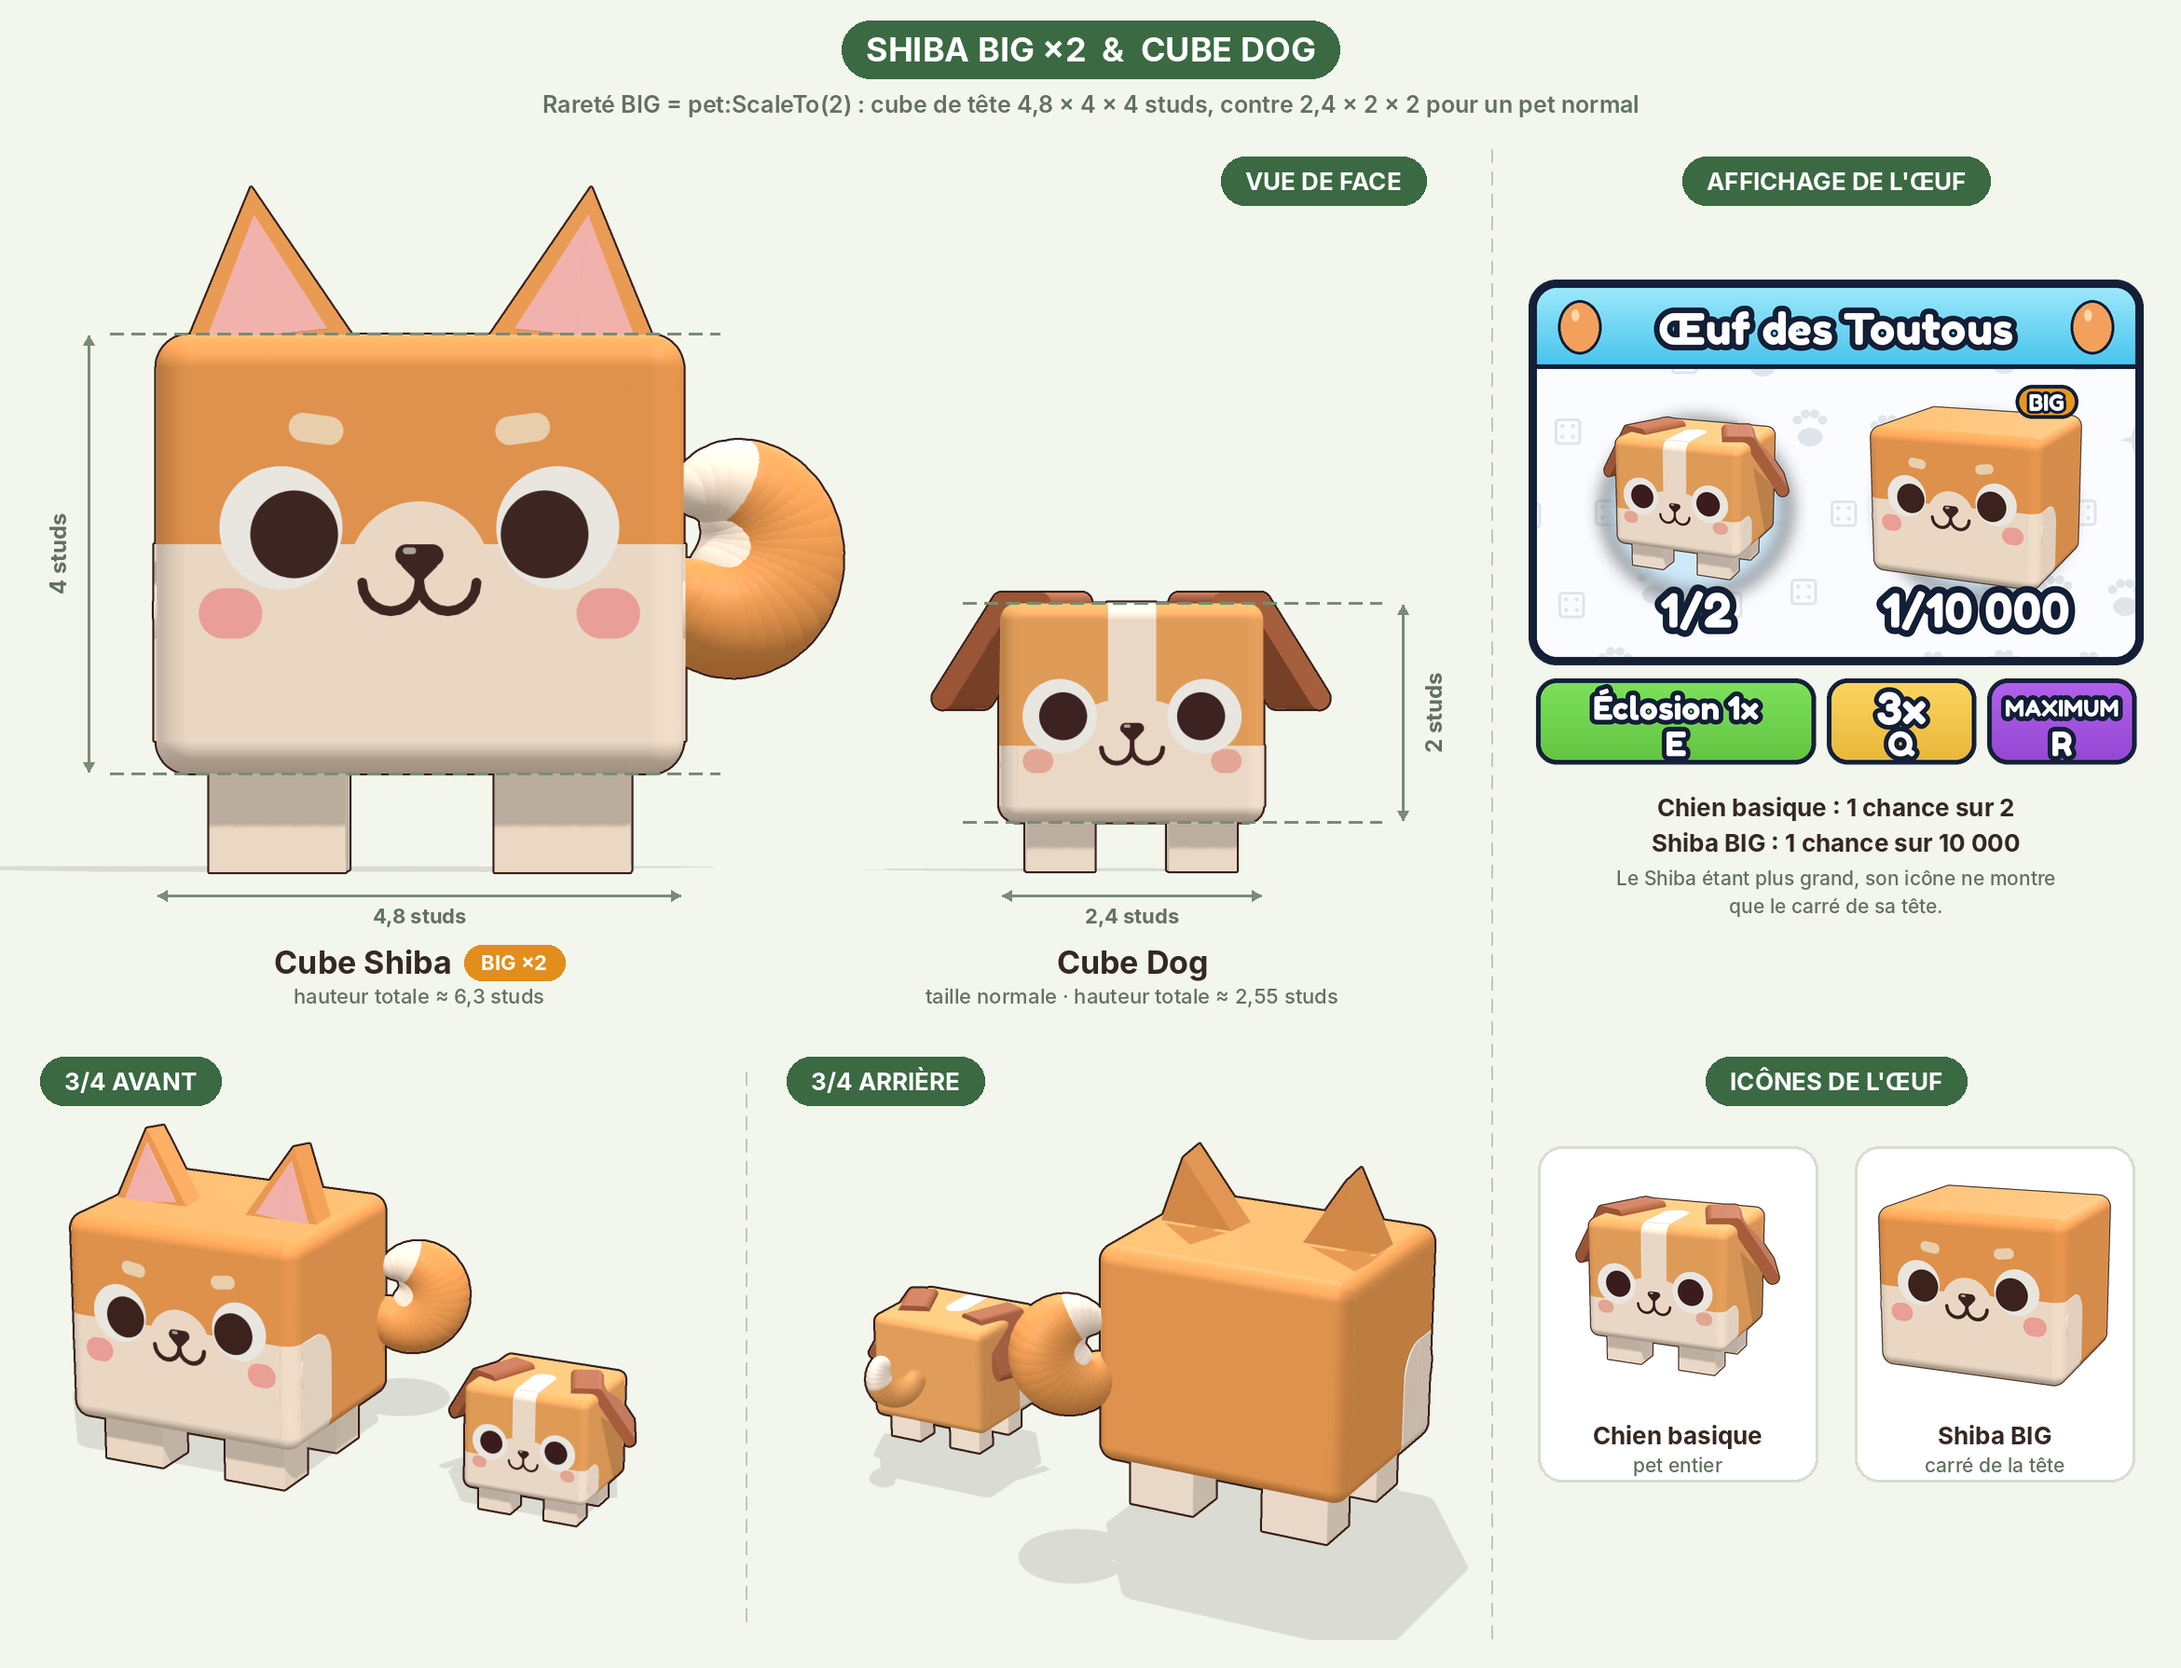
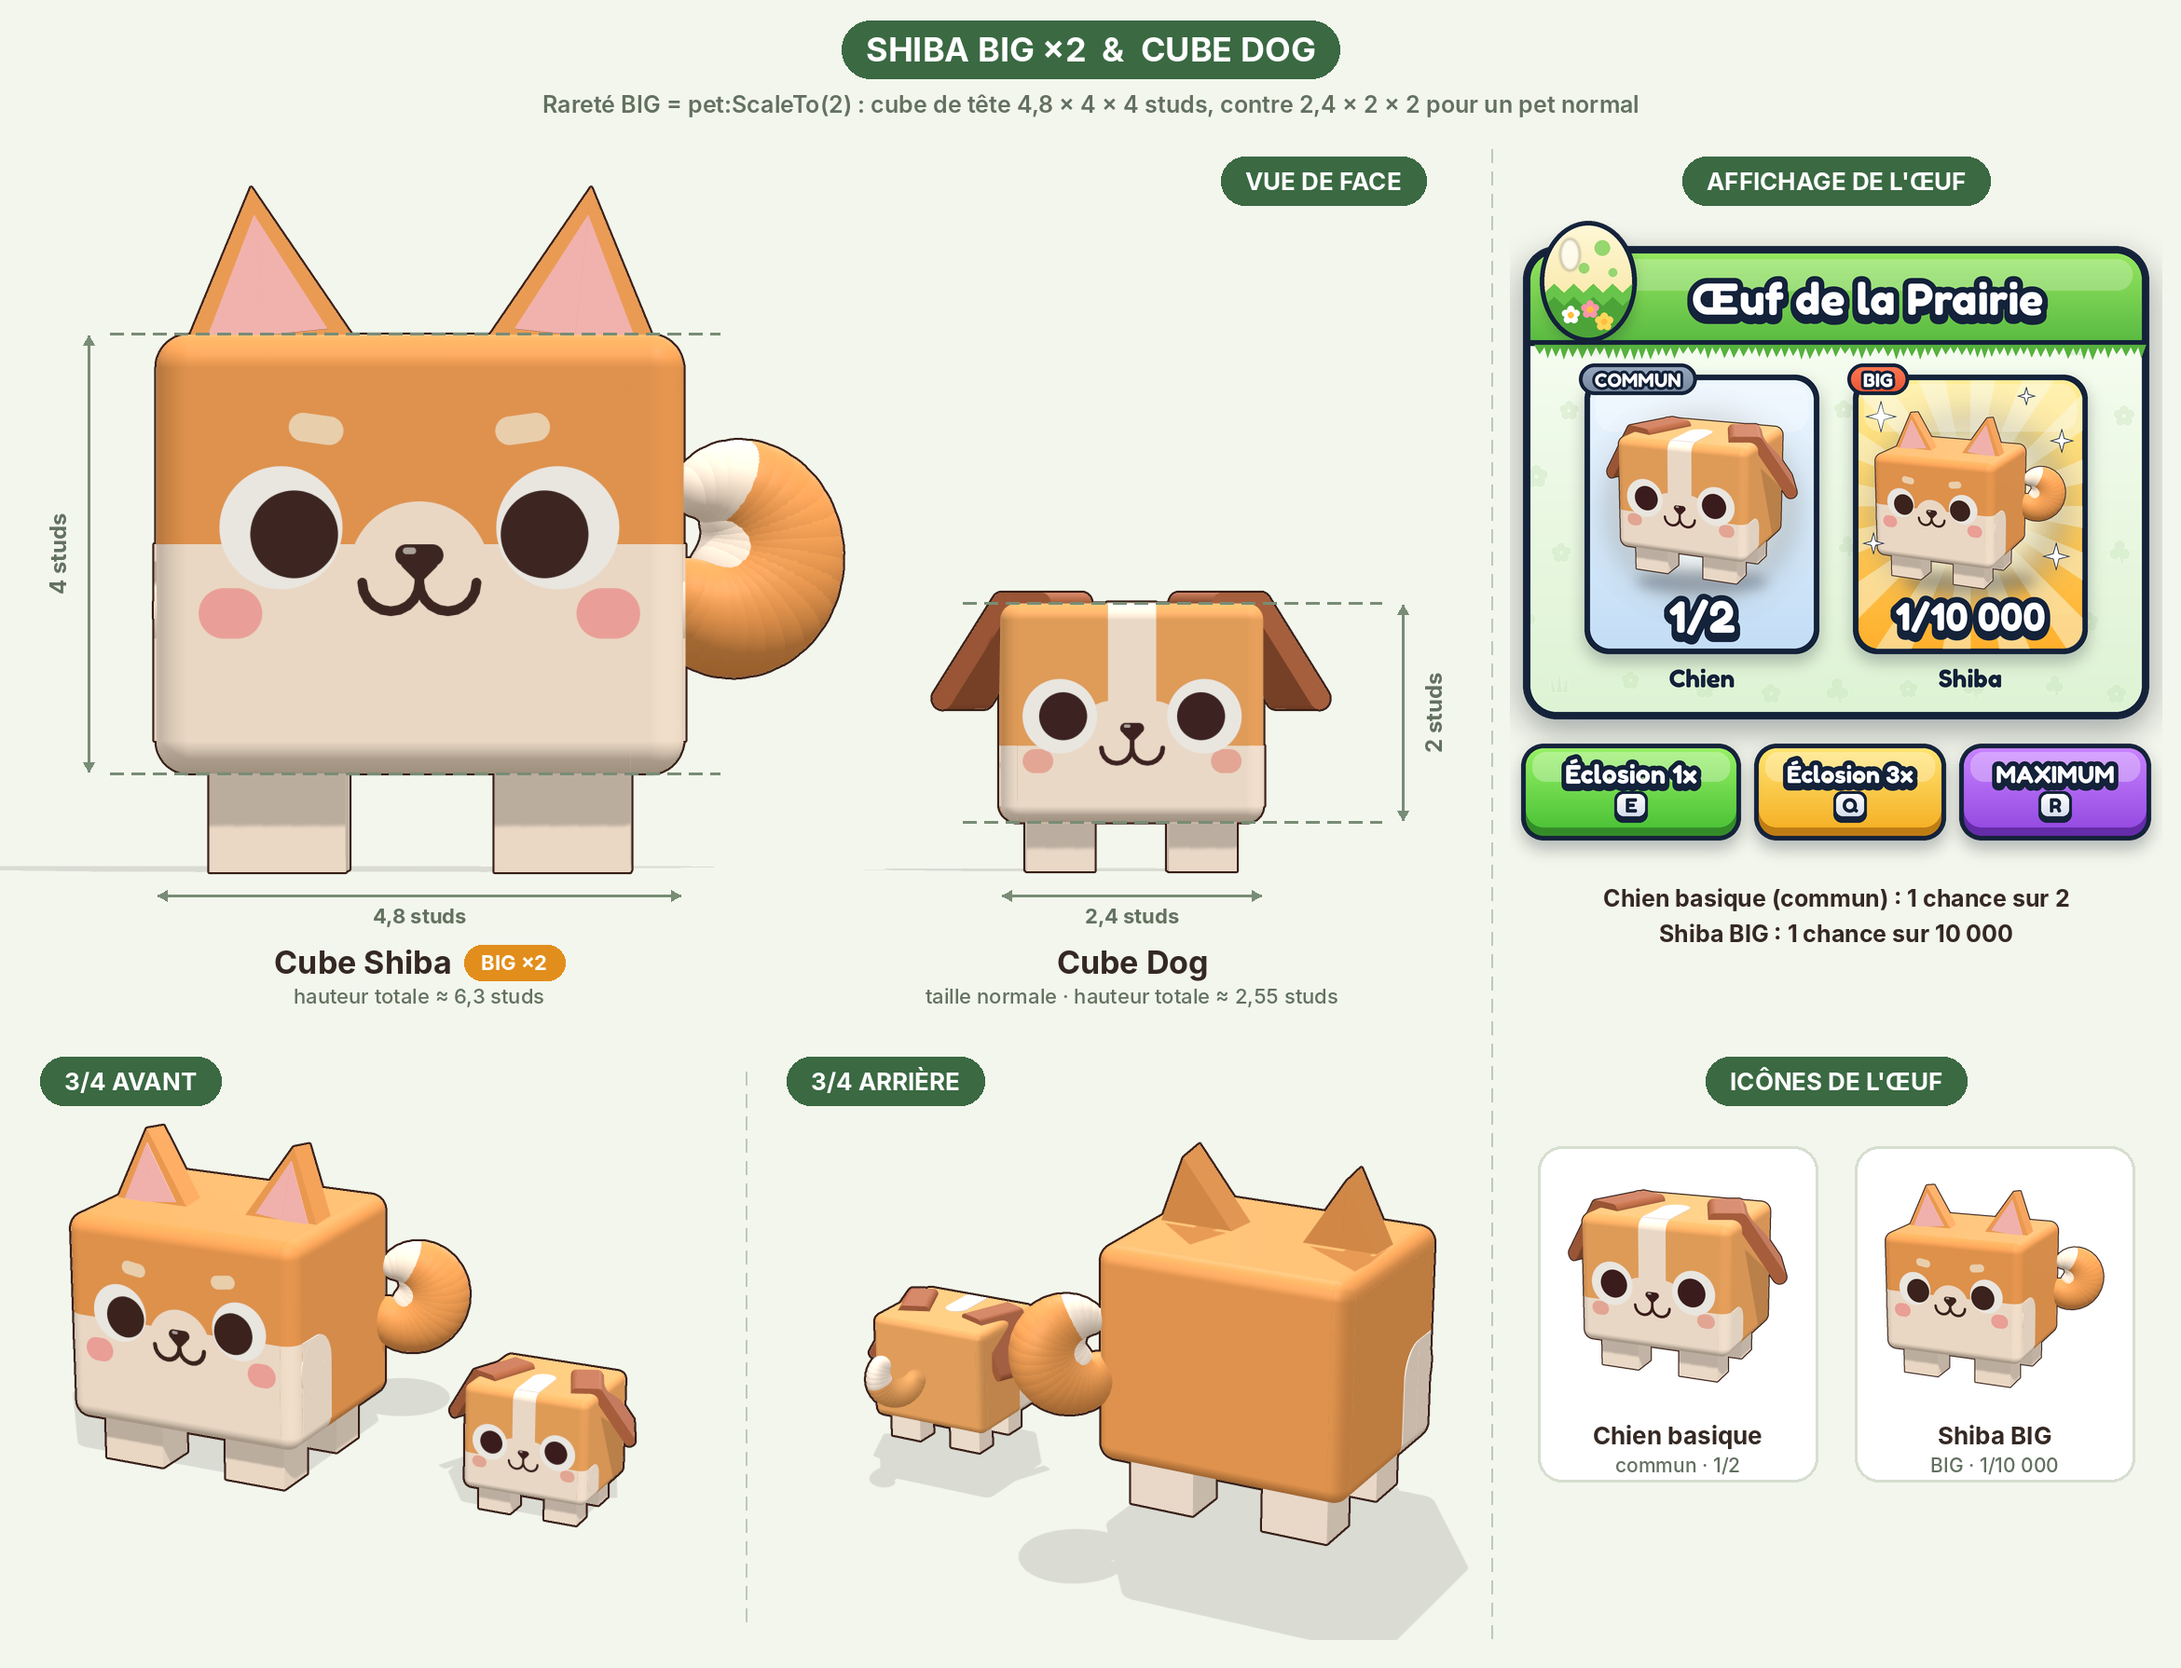
Restyle the egg display as Oeuf de la Prairie
The Shiba now appears as a full pet in the egg. New panel: meadow theme
with a drawn prairie egg, rarity tiles (COMMUN / BIG with golden rays),
3D buttons with keycaps and soft shadows. Also saved on its own as
preview/oeuf_prairie.png.

Claude-Session: https://claude.ai/code/session_01BiAVv3M1LHTXn1a7j4CW8y

diff --git a/roblox/CubePets/README.md b/roblox/CubePets/README.md
@@ -8,7 +8,7 @@ En rareté **BIG**, un pet est simplement agrandi ×2 avec `pet:ScaleTo(2)`, dep
 
 ![Shiba BIG ×2 à côté du chien normal](preview/comparaison_big.png)
 
-La colonne de droite montre l'affichage de l'œuf (« Œuf des Toutous ») : le chien basique à 1/2 et le Shiba BIG à 1/10 000. Comme le Shiba BIG est plus grand, son icône ne montre que le carré de sa tête.
+La colonne de droite montre l'affichage de l'œuf « Œuf de la Prairie » : le chien basique (commun) à 1/2 et le Shiba BIG à 1/10 000. L'UI seule est aussi disponible dans `preview/oeuf_prairie.png`.
 
 Les pets sont faits **uniquement de pièces Roblox + une SurfaceGui pour le visage** : aucun mesh ni aucune image à uploader. Tu glisses le fichier dans Studio et c'est prêt.
 
@@ -18,7 +18,7 @@ Les pets sont faits **uniquement de pièces Roblox + une SurfaceGui pour le visa
 | `CubeDog.rbxmx` / `CubeDog_Golden.rbxmx` | Chien, version normale et dorée |
 | `src/CubePetBuilder.luau` | Source qui génère les modèles (dimensions, couleurs, visages) |
 | `tools/` | Export (Lune), vérifications, viewer 3D web |
-| `preview/` | Rendus des modèles (`comparaison.png`, `comparaison_big.png`, `shiba_*.png`, `chien_*.png`) |
+| `preview/` | Rendus des modèles (`comparaison.png`, `comparaison_big.png`, `oeuf_prairie.png`, `shiba_*.png`, `chien_*.png`) |
 
 ## Importer dans Roblox Studio
 
